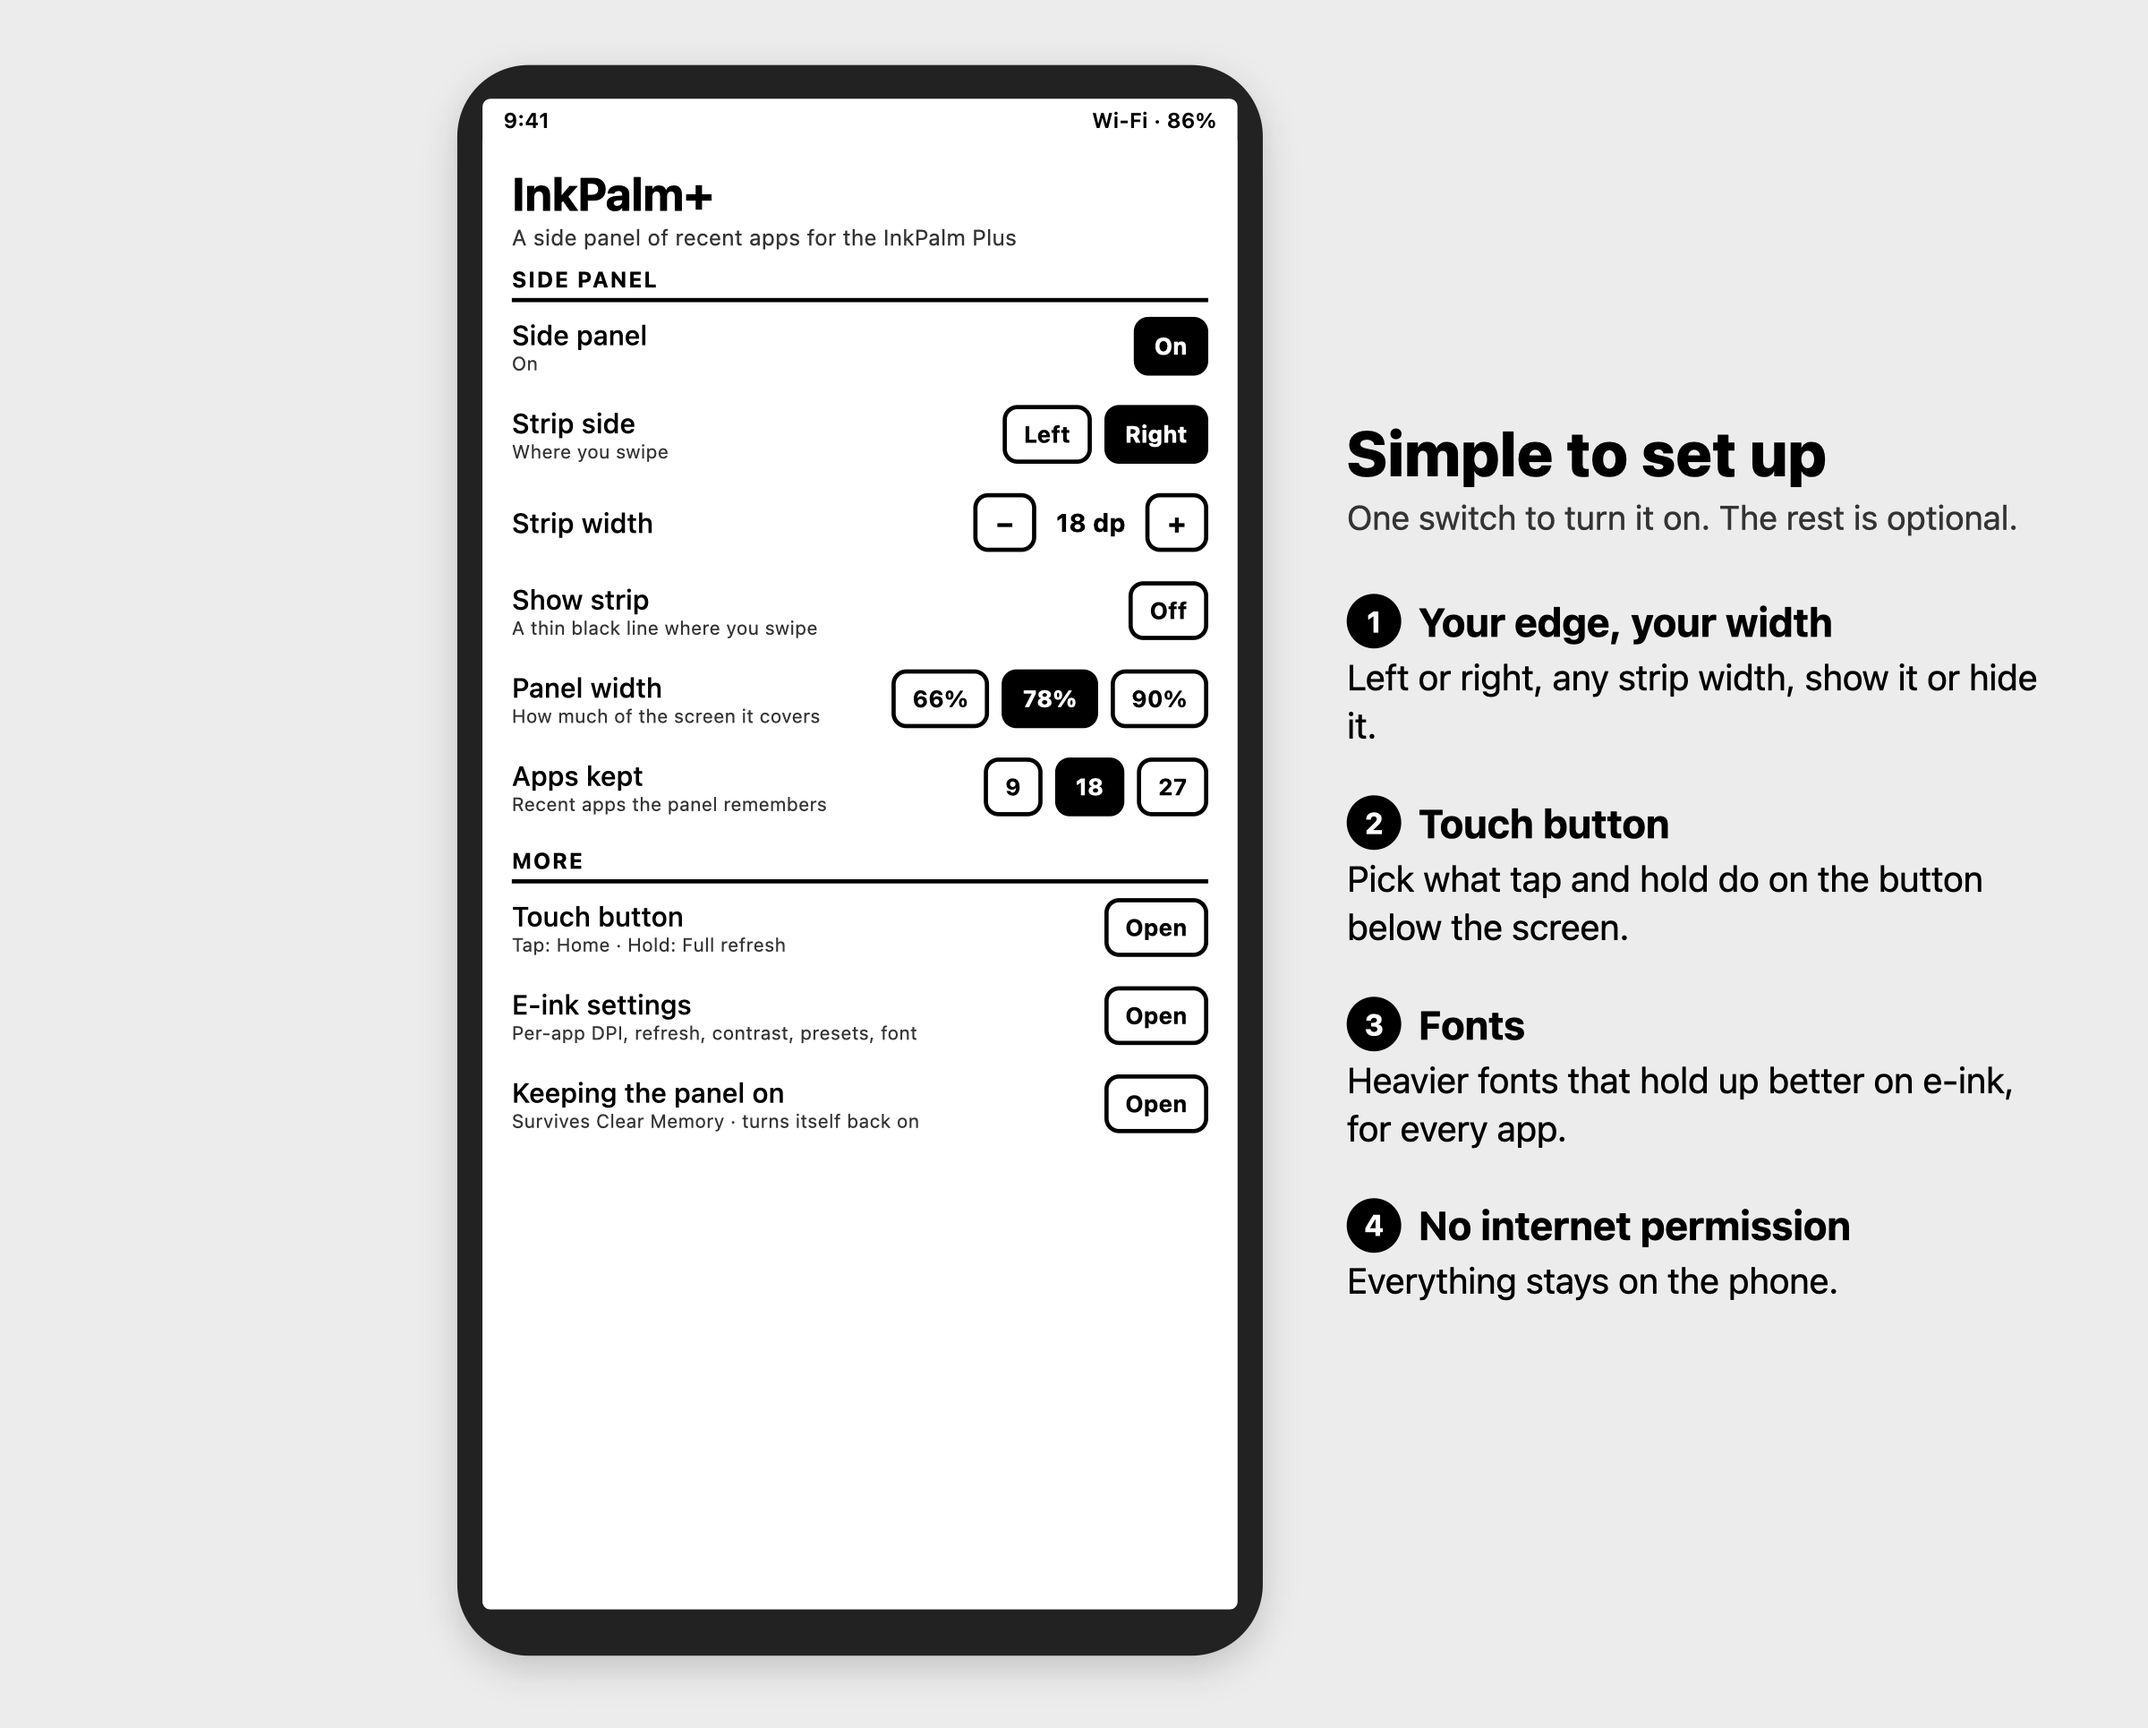
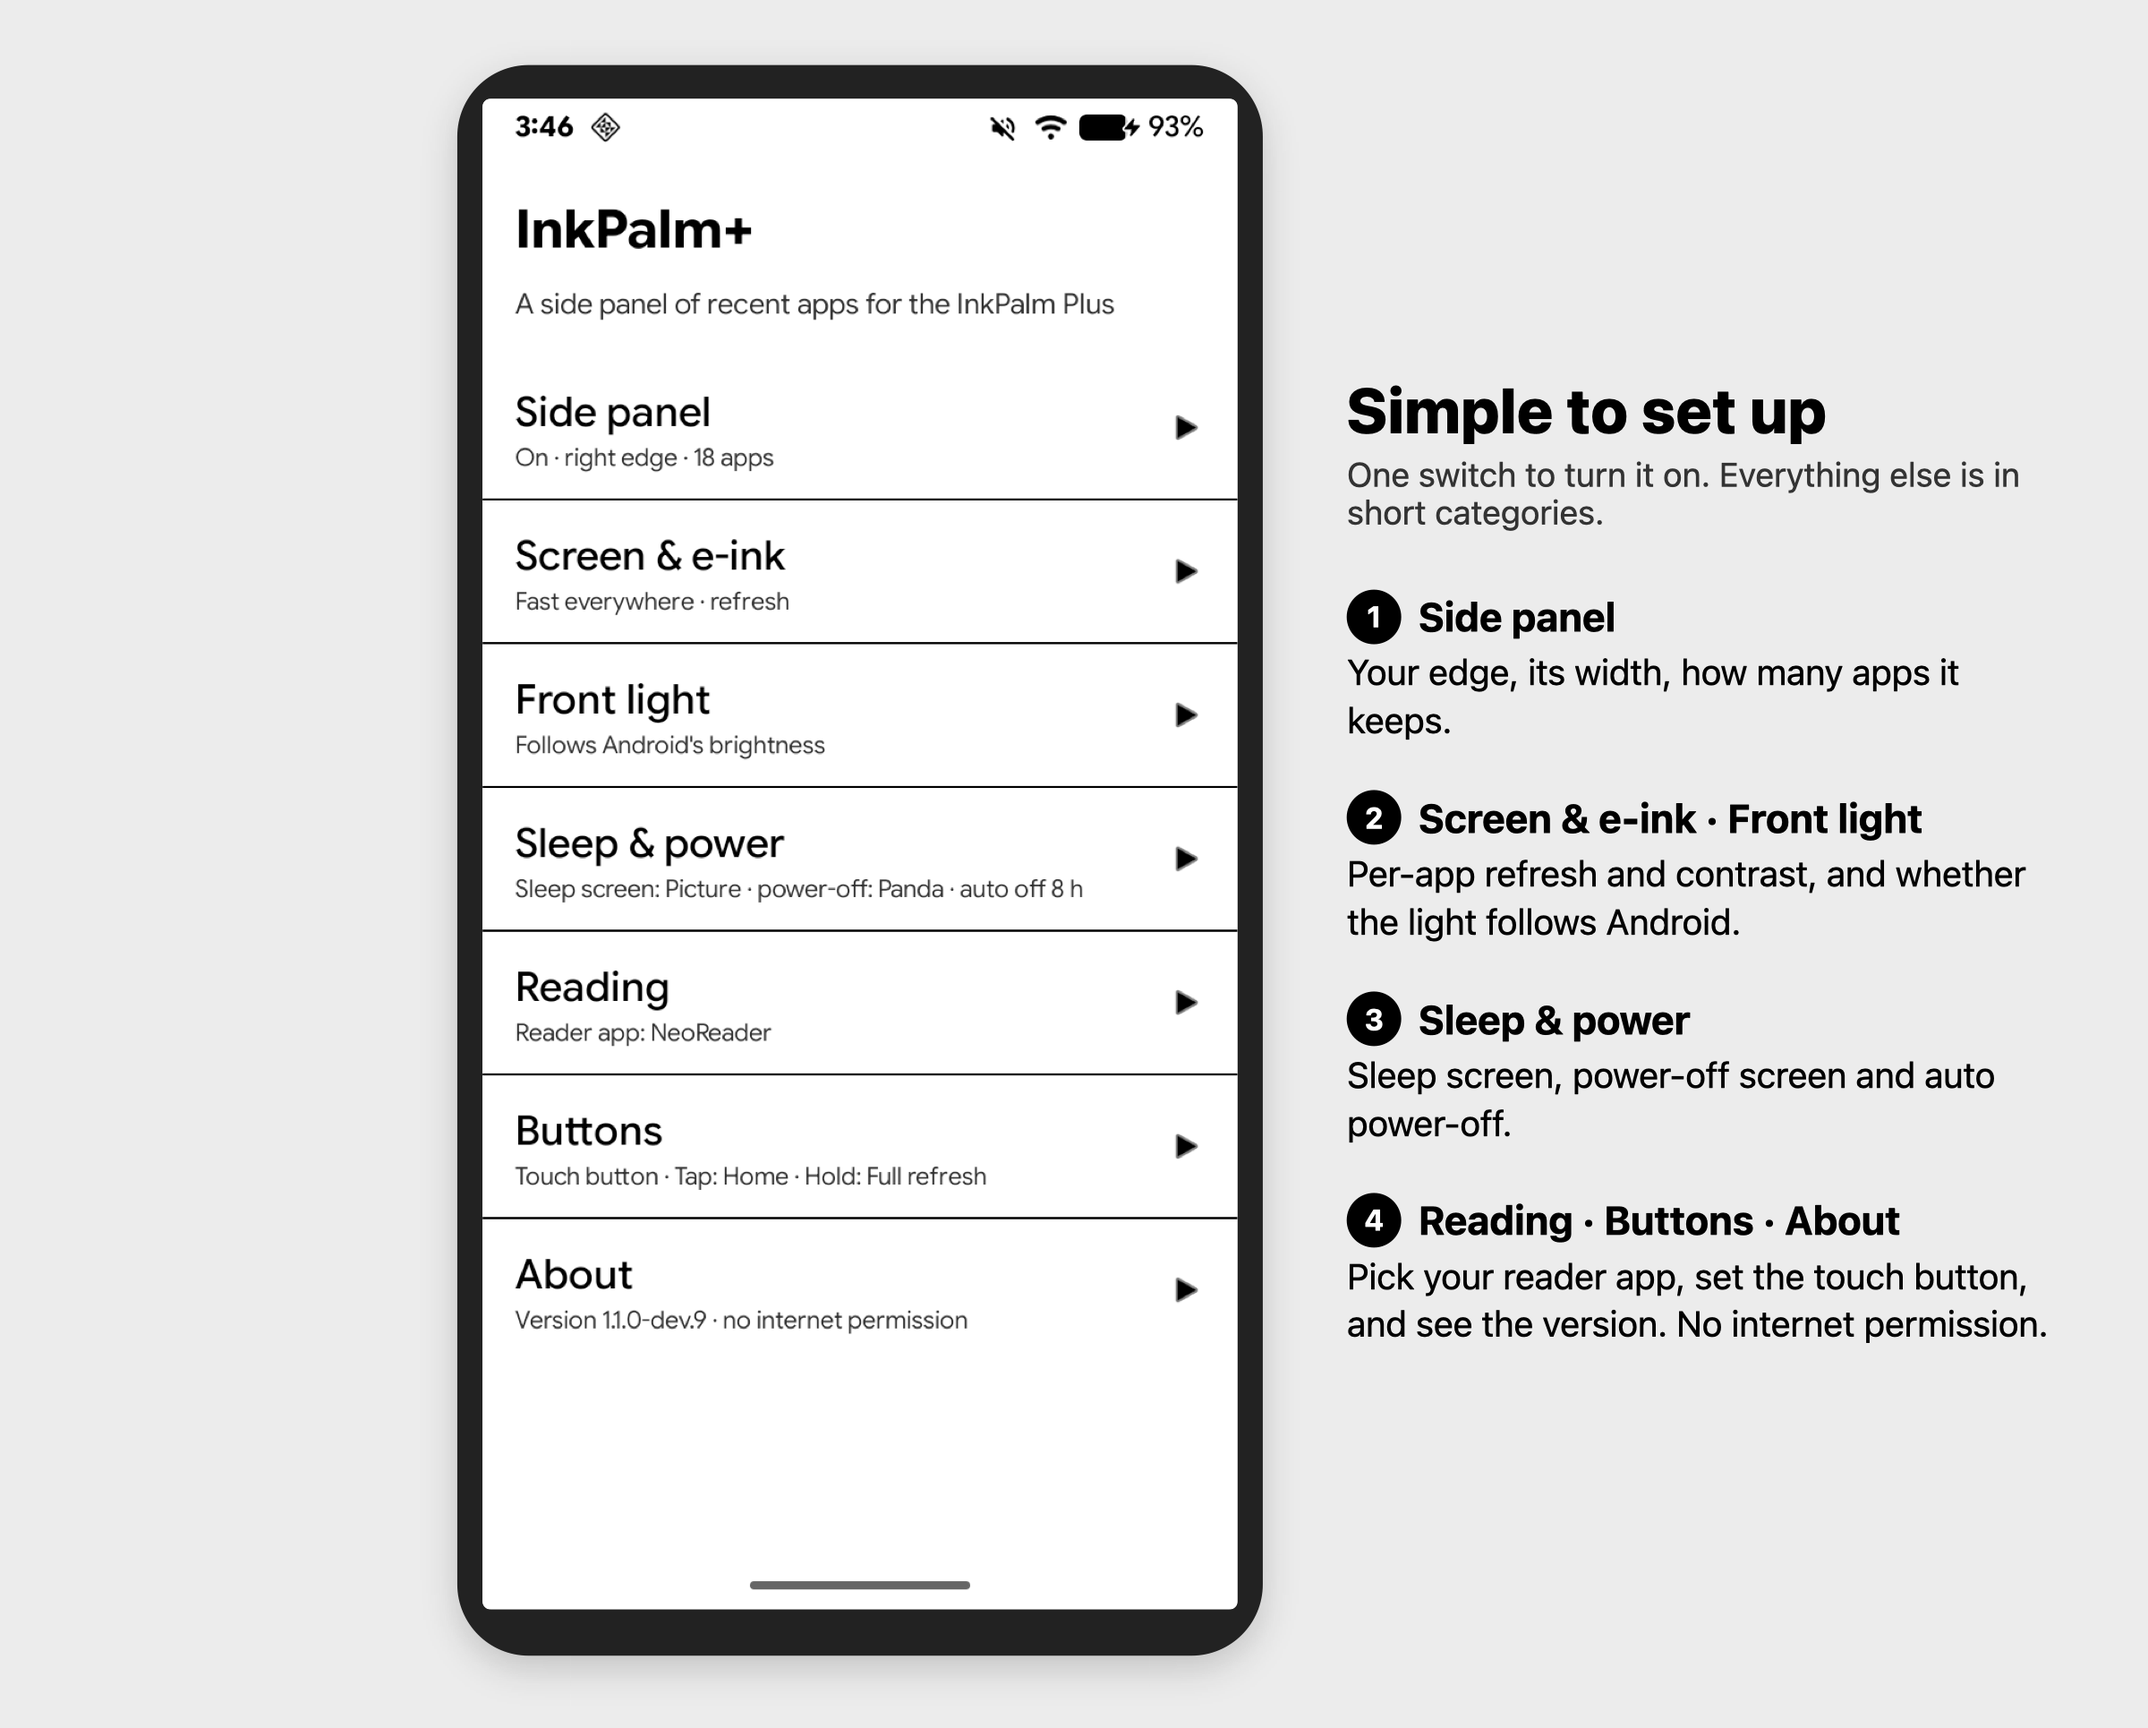
Launch image: home screen with the new categorized settings layout
Real device capture in the frame; README shows it; reddit-post caption updated.

diff --git a/docs/launch/5-home.html b/docs/launch/5-home.html
@@ -80,4 +80,4 @@ rising from their chimneys. On the hill above them stood the lighthouse, white a
 morning light.</p>
 <p>"You'll want to walk," said the ferryman, tying off the rope. "Nothing on wheels gets far here."</p>
 <p>She thanked him and stepped onto the boards, which moved a little under her feet, as if the pier itself were still
-deciding whether to let her stay.</p></div><div style="position:absolute;inset:20px 0 0 0;background:#fff" class="home"><h1>InkPalm+</h1><div class="subt">A side panel of recent apps for the InkPalm Plus</div><div class="sec">SIDE PANEL</div><div class="hr"><div class="n"><b>Side panel</b><span>On</span></div><div class="btn on">On</div></div><div class="hr"><div class="n"><b>Strip side</b><span>Where you swipe</span></div><div class="btn">Left</div><div class="btn on">Right</div></div><div class="hr"><div class="n"><b>Strip width</b><span></span></div><div class="btn sq">−</div><b style="font-size:12px;width:40px;text-align:center">18 dp</b><div class="btn sq">+</div></div><div class="hr"><div class="n"><b>Show strip</b><span>A thin black line where you swipe</span></div><div class="btn">Off</div></div><div class="hr"><div class="n"><b>Panel width</b><span>How much of the screen it covers</span></div><div class="btn">66%</div><div class="btn on">78%</div><div class="btn">90%</div></div><div class="hr"><div class="n"><b>Apps kept</b><span>Recent apps the panel remembers</span></div><div class="btn">9</div><div class="btn on">18</div><div class="btn">27</div></div><div class="sec">MORE</div><div class="hr"><div class="n"><b>Touch button</b><span>Tap: Home · Hold: Full refresh</span></div><div class="btn">Open</div></div><div class="hr"><div class="n"><b>E-ink settings</b><span>Per-app DPI, refresh, contrast, presets, font</span></div><div class="btn">Open</div></div><div class="hr"><div class="n"><b>Keeping the panel on</b><span>Survives Clear Memory · turns itself back on</span></div><div class="btn">Open</div></div></div></div></div><div class="notes"><div><div class="title">Simple to set up</div><div class="lead">One switch to turn it on. The rest is optional.</div></div><div class="callout"><b><span class="num">1</span>Your edge, your width</b>Left or right, any strip width, show it or hide it.</div><div class="callout"><b><span class="num">2</span>Touch button</b>Pick what tap and hold do on the button below the screen.</div><div class="callout"><b><span class="num">3</span>Fonts</b>Heavier fonts that hold up better on e-ink, for every app.</div><div class="callout"><b><span class="num">4</span>No internet permission</b>Everything stays on the phone.</div></div></div></body></html>
+deciding whether to let her stay.</p></div><img src="home-screen.png" style="position:absolute;inset:0;width:360px;height:720px;display:block" alt=""></div></div><div class="notes"><div><div class="title">Simple to set up</div><div class="lead">One switch to turn it on. Everything else is in short categories.</div></div><div class="callout"><b><span class="num">1</span>Side panel</b>Your edge, its width, how many apps it keeps.</div><div class="callout"><b><span class="num">2</span>Screen &amp; e-ink · Front light</b>Per-app refresh and contrast, and whether the light follows Android.</div><div class="callout"><b><span class="num">3</span>Sleep &amp; power</b>Sleep screen, power-off screen and auto power-off.</div><div class="callout"><b><span class="num">4</span>Reading · Buttons · About</b>Pick your reader app, set the touch button, and see the version. No internet permission.</div></div></div></body></html>

diff --git a/docs/launch/build.py b/docs/launch/build.py
@@ -198,26 +198,15 @@ img4 = page(f'<div style="display:flex;flex-direction:column;gap:22px">{phone(LS
 def hrow(name, sub, right):
     return f'<div class="hr"><div class="n"><b>{name}</b><span>{sub}</span></div>{right}</div>'
 
-HOME = ('<div style="position:absolute;inset:20px 0 0 0;background:#fff" class="home"><h1>InkPalm+</h1>'
-        '<div class="subt">A side panel of recent apps for the InkPalm Plus</div><div class="sec">SIDE PANEL</div>'
-        + hrow("Side panel", "On", '<div class="btn on">On</div>')
-        + hrow("Strip side", "Where you swipe", '<div class="btn">Left</div><div class="btn on">Right</div>')
-        + hrow("Strip width", "", '<div class="btn sq">−</div><b style="font-size:12px;width:40px;text-align:center">18 dp</b><div class="btn sq">+</div>')
-        + hrow("Show strip", "A thin black line where you swipe", '<div class="btn">Off</div>')
-        + hrow("Panel width", "How much of the screen it covers", '<div class="btn">66%</div><div class="btn on">78%</div><div class="btn">90%</div>')
-        + hrow("Apps kept", "Recent apps the panel remembers", '<div class="btn">9</div><div class="btn on">18</div><div class="btn">27</div>')
-        + '<div class="sec">MORE</div>'
-        + hrow("Touch button", "Tap: Home · Hold: Full refresh", '<div class="btn">Open</div>')
-        + hrow("E-ink settings", "Per-app DPI, refresh, contrast, presets, font", '<div class="btn">Open</div>')
-        + hrow("Keeping the panel on", "Survives Clear Memory · turns itself back on", '<div class="btn">Open</div>')
-        + '</div>')
+# The real home screen, captured from the device (720x1440, shown at half size like the other mockups).
+HOME = '<img src="home-screen.png" style="position:absolute;inset:0;width:360px;height:720px;display:block" alt="">'
 img5 = page(phone(HOME) + callouts(
     "Simple to set up",
-    "One switch to turn it on. The rest is optional.",
-    [("Your edge, your width", "Left or right, any strip width, show it or hide it."),
-     ("Touch button", "Pick what tap and hold do on the button below the screen."),
-     ("Fonts", "Heavier fonts that hold up better on e-ink, for every app."),
-     ("No internet permission", "Everything stays on the phone.")]))
+    "One switch to turn it on. Everything else is in short categories.",
+    [("Side panel", "Your edge, its width, how many apps it keeps."),
+     ("Screen &amp; e-ink · Front light", "Per-app refresh and contrast, and whether the light follows Android."),
+     ("Sleep &amp; power", "Sleep screen, power-off screen and auto power-off."),
+     ("Reading · Buttons · About", "Pick your reader app, set the touch button, and see the version. No internet permission.")]))
 
 for name, html in [("1-panel", img1), ("2-hold", img2), ("3-eink", img3), ("4-landscape", img4), ("5-home", img5)]:
     (HERE / f"{name}.html").write_text(html)

diff --git a/README.md b/README.md
@@ -185,6 +185,8 @@ These are the actions already built into the device. Changes apply on the next t
 
 The home screen is a short list of categories; each opens its own screen (◀ goes back). Each row says what's set there.
 
+<img src="docs/launch/5-home.png" width="720" alt="The InkPalm+ home screen: Side panel, Screen & e-ink, Front light, Sleep & power, Reading, Buttons and About">
+
 - **Side panel:**
   - **Side panel.** Opens Accessibility so you can turn the service on or off.
   - **Newest app.** Bottom (the default) or Top of the list.

diff --git a/docs/launch/reddit-post.md b/docs/launch/reddit-post.md
@@ -8,7 +8,7 @@
 2. `2-hold.png`: holding an app for its menu
 3. `3-eink.png`: the e-ink panel (Preset, Size, Contrast, Rotate)
 4. `4-landscape.png`: the panel in landscape
-5. `5-home.png`: the home screen
+5. `5-home.png`: the home screen: a short list of categories (Side panel, Screen & e-ink, Front light, Sleep & power, Reading, Buttons, About)
 
 ---
 
